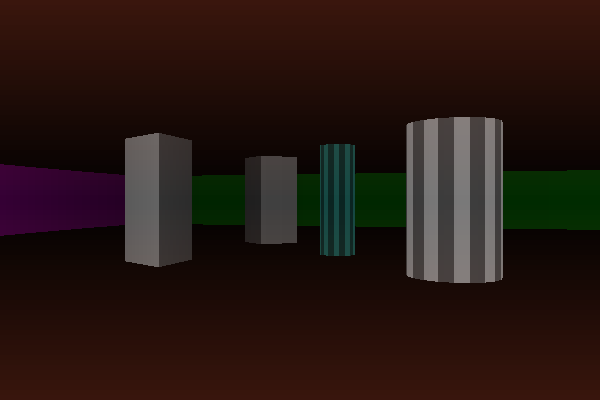
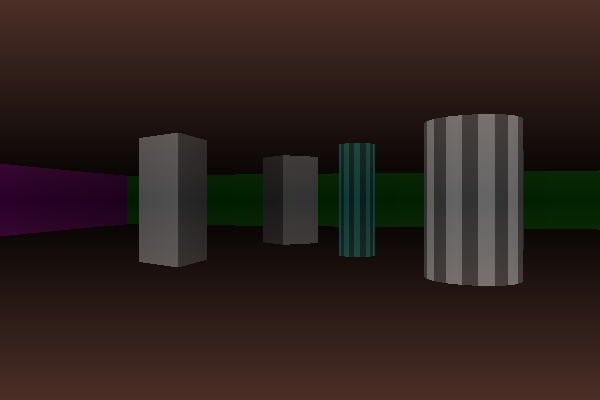
minor improvements

diff --git a/src/implementation/tools.cpp b/src/implementation/tools.cpp
@@ -12,24 +12,24 @@ IntersectionResult::IntersectionResult(float fY, float fX)
 	this -> bHasIntersect = true;
 }
 
-void drawCeilAndFloor(sf::RenderWindow& window, float fHorizontalSurfaceH, float fHorizontalSurfaceStep, float fHorizontalSurfaceAlphaStep,
-	float fHorizont, sf::Color color)
+void drawCeilAndFloor(sf::RenderWindow& window, float fFloorAndCeilSectionWidth, float fFloorAndCeilAlphaStep, float fFloorAndCeilAlphaValue,
+	sf::Color color)
 {
 	float fFloorAlpha = 0;
-	for (float i = 0; i < fHorizontalSurfaceH; i += fHorizontalSurfaceStep, fFloorAlpha += fHorizontalSurfaceAlphaStep)
+	for (float i = 0; i < mWHHalf; i += fFloorAndCeilSectionWidth, fFloorAlpha += fFloorAndCeilAlphaStep)
 	{
-		sf::RectangleShape rectFloor(sf::Vector2f(mWW, fHorizontalSurfaceStep));
-		rectFloor.setPosition(0, fHorizont + i);
+		sf::RectangleShape rectFloor(sf::Vector2f(mWW, fFloorAndCeilSectionWidth));
+		rectFloor.setPosition(0, mWHHalf + i);
 		rectFloor.setFillColor(sf::Color(color.r, color.g, color.b, fFloorAlpha));
 
 		window.draw(rectFloor);
 	}
 
-	float fCeilAlpha = 200;
-	for (float i = 0; i < fHorizontalSurfaceH; i += fHorizontalSurfaceStep, fCeilAlpha -= fHorizontalSurfaceAlphaStep)
+	float fCeilAlpha = fFloorAndCeilAlphaValue;
+	for (float i = 0; i < mWHHalf; i += fFloorAndCeilSectionWidth, fCeilAlpha -= fFloorAndCeilAlphaStep)
 	{
-		sf::RectangleShape rectFloor(sf::Vector2f(mWW, fHorizontalSurfaceStep));
-		rectFloor.setPosition(0, fHorizont - mWH + i);
+		sf::RectangleShape rectFloor(sf::Vector2f(mWW, fFloorAndCeilSectionWidth));
+		rectFloor.setPosition(0, i);
 		rectFloor.setFillColor(sf::Color(color.r, color.g, color.b, fCeilAlpha));
 
 		window.draw(rectFloor);
@@ -50,7 +50,7 @@ void collisionDetection(sf::Vector2f& playerPos, std::vector<Ray>& collisionRays
 }
 
 void drawWalls(sf::RenderWindow& window, std::vector<Ray>& rays, float fAngle, float fFovHalf, float fRayStep,
-	float fDistToProjectionPlane, float fShadeIntensity, float fShadeMultiplier, float fHorizont, int iWallHCoeff, int iWallSliceW)
+	float fDistToProjectionPlane, float fShadeIntensity, float fShadeMultiplier, int iWallHCoeff, int iWallSliceW)
 {
 	float fFovAlpha = -fFovHalf;
 
@@ -65,7 +65,7 @@ void drawWalls(sf::RenderWindow& window, std::vector<Ray>& rays, float fAngle, f
 		
 		sf::RectangleShape slice(sf::Vector2f(iWallSliceW, fWallH));
 		slice.setFillColor(sf::Color(rays[i].color.r, rays[i].color.g, rays[i].color.b, iAlphaChannel));
-		slice.setPosition(i * iWallSliceW, fHorizont - fWallH / 2);
+		slice.setPosition(i * iWallSliceW, mWHHalf - fWallH / 2);
 		
 		window.draw(slice);
 	}
@@ -136,14 +136,14 @@ void createCircleShape(std::vector<Boundary>& boundaries, float fY, float fX, fl
 	});
 }
 
-void mouseControl(sf::RenderWindow& window, float& fAngle, float& fHorizont, float fDT, float fSensitivity)
+void mouseControl(sf::RenderWindow& window, float& fAngle, float fDT, float fSensitivity)
 {
-	float fDY = sf::Mouse::getPosition(window).y - mWH / 2;
-	float fDX = sf::Mouse::getPosition(window).x - mWW / 2;
+	float fDY = sf::Mouse::getPosition(window).y - mWHHalf;
+	float fDX = sf::Mouse::getPosition(window).x - mWWHalf;
 
 	fAngle += fDX * fSensitivity * fDT;
 	
-	sf::Mouse::setPosition(sf::Vector2i(mWW / 2, mWH / 2), window);
+	sf::Mouse::setPosition(sf::Vector2i(mWWHalf, mWHHalf), window);
 }
 
 void keyControl(sf::Vector2f& playerPos, float& fAngle, float fDT, float fPlayerRotateSpeed, float fPlayerSpeed)
@@ -238,7 +238,7 @@ int main()
 	sf::RenderWindow window(sf::VideoMode(mWW, mWH), mTitle);
 	window.setMouseCursorVisible(false);
 
-	sf::Mouse::setPosition(sf::Vector2i(mWW / 2, mWH / 2), window);
+	sf::Mouse::setPosition(sf::Vector2i(mWWHalf, mWHHalf), window);
 
 	return init(window);
 }

diff --git a/src/implementation/main.cpp b/src/implementation/main.cpp
@@ -51,11 +51,6 @@ int loop(sf::RenderWindow& window, std::map<std::string, float>& cfg)
 	float fFov = toRadians(cfg["FOV"]);
 	float fFovHalf = fFov / 2;
 	float fRayLength = cfg["rayLength"];
-	float fHorizont = mWH / 2;
-	float fHorizontalSurfaceH = mWH;
-	float fHorizontalSurfaceStep = 5;
-	float fHorizontalSurfaceAlphaValue = 200;
-	float fHorizontalSurfaceAlphaStep = fHorizontalSurfaceAlphaValue / (fHorizontalSurfaceH / fHorizontalSurfaceStep);
 	float fRayStep = fFov / cfg["projectionPlaneWidth"];
 	float fWallSliceWidth = mWW / cfg["projectionPlaneWidth"];
 	float fWallHeightCoeff = cfg["wallHeightCoeff"];
@@ -71,6 +66,9 @@ int loop(sf::RenderWindow& window, std::map<std::string, float>& cfg)
 	float fObjectsAngleOffset = 0;
 	float fObjectsRadius = cfg["objectsRadius"];
 	float fObjectsOrbitalRadius = cfg["objectsOrbitalRadius"];
+	float fFloorAndCeilSectionWidth = cfg["floorAndCeilSectionWidth"];
+	float fFloorAndCeilAlphaValue = cfg["floorAndCeilAlphaValue"];
+	float fFloorAndCeilAlphaStep = fFloorAndCeilAlphaValue / (mWHHalf / fFloorAndCeilSectionWidth);
 
 	sf::Vector2f mapCenterPos(cfg["mapWidth"] / 2, cfg["mapHeight"] / 2);
 	sf::Vector2f playerPos(mapCenterPos.x, 100);
@@ -168,7 +166,7 @@ int loop(sf::RenderWindow& window, std::map<std::string, float>& cfg)
 			Handling mouse and keyboard events.
 		*/
 		if (!bShowMouse)
-			mouseControl(window, fAngle, fHorizont, fDT, fSensitivity);
+			mouseControl(window, fAngle, fDT, fSensitivity);
 		keyControl(playerPos, fAngle, fDT, fPlayerRotateSpeed, fPlayerSpeed);
 
 		/*
@@ -178,14 +176,13 @@ int loop(sf::RenderWindow& window, std::map<std::string, float>& cfg)
 
 		window.clear();
 
-		drawCeilAndFloor(window, fHorizontalSurfaceH, fHorizontalSurfaceStep, fHorizontalSurfaceAlphaStep, fHorizont,
-			sf::Color(148, 56, 33));
+		drawCeilAndFloor(window, fFloorAndCeilSectionWidth, fFloorAndCeilAlphaStep, fFloorAndCeilAlphaValue, sf::Color(76, 47, 39));
 
 		/*
 			Drawing vertical slices based on the distance to the intersection of rays with boundaries.
 		*/
-		drawWalls(window, rays, fAngle, fFovHalf, fRayStep, fDistanceToProjectionPlane, fShadeIntensity, fShadeMultiplier, fHorizont,
-			fWallHeightCoeff, fWallSliceWidth);
+		drawWalls(window, rays, fAngle, fFovHalf, fRayStep, fDistanceToProjectionPlane, fShadeIntensity, fShadeMultiplier, fWallHeightCoeff,
+			fWallSliceWidth);
 
 		window.display();
 
@@ -209,7 +206,7 @@ int loop(sf::RenderWindow& window, std::map<std::string, float>& cfg)
 				bShowMouse = !bShowMouse;
 
 				window.setMouseCursorVisible(bShowMouse);
-				sf::Mouse::setPosition(sf::Vector2i(mWW / 2, mWH / 2), window);
+				sf::Mouse::setPosition(sf::Vector2i(mWWHalf, mWHHalf), window);
 				
 				break;
 		}

diff --git a/src/headers/tools.h b/src/headers/tools.h
@@ -27,13 +27,13 @@ struct IntersectionResult
 
 IntersectionResult intersection(std::vector<sf::Vector2f> line1, std::vector<sf::Vector2f> line2);
 
-void drawCeilAndFloor(sf::RenderWindow& window, float fHorizontalSurfaceH, float fHorizontalSurfaceStep, float fHorizontalSurfaceAlphaStep,
-	float fHorizont, sf::Color color);
+void drawCeilAndFloor(sf::RenderWindow& window, float fFloorAndCeilSectionWidth, float fFloorAndCeilAlphaStep, float fFloorAndCeilAlphaValue,
+	sf::Color color);
 void collisionDetection(sf::Vector2f& playerPos, std::vector<Ray>& collisionRays, float fDT, float fCollisionRayStep, float fAngle,
 	float fPlayerSpeed, float fCollisionDistance);
-void drawWalls(sf::RenderWindow& window, std::vector<Ray>& rays, float fAngle, float fFovHalf, float fRayStep,
-	float fDistToProjectionPlane, float fShadeIntensity, float fShadeMultiplier, float fHorizont, int iWallHCoeff, int iWallSliceW);
-void mouseControl(sf::RenderWindow& window, float& fAngle, float& fHorizont, float fDT, float fSensitivity);
+void drawWalls(sf::RenderWindow& window, std::vector<Ray>& rays, float fAngle, float fFovHalf, float fRayStep, float fDistToProjectionPlane,
+	float fShadeIntensity, float fShadeMultiplier, int iWallHCoeff, int iWallSliceW);
+void mouseControl(sf::RenderWindow& window, float& fAngle, float fDT, float fSensitivity);
 void keyControl(sf::Vector2f& playerPos, float& fAngle, float fDT, float fPlayerRotateSpeed, float fPlayerSpeed);
 void createCircleShape(std::vector<Boundary>& boundaries, float fY, float fX, float fRadius, int iVertexCount, sf::Color color = sf::Color(255, 255, 255));
 void displayConsoleInformation(std::map<std::string, float>& cfg);

diff --git a/src/headers/macros.h b/src/headers/macros.h
@@ -1,4 +1,6 @@
 #define mWH 400
 #define mWW 600
+#define mWHHalf mWH / 2
+#define mWWHalf mWW / 2
 #define mTitle "ray casting"
 #define mConfigPath ".cfg"
